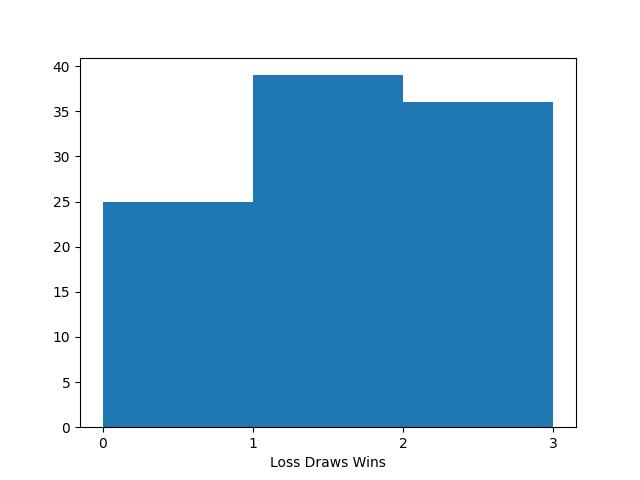
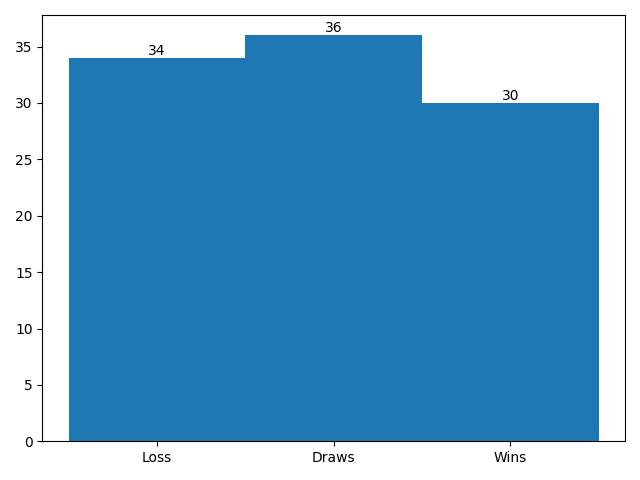
done

diff --git a/first/kpn.py b/first/kpn.py
@@ -1,7 +1,6 @@
 from generators.prand import LCG_CLS
 import matplotlib.pyplot as plt
 from collections import Counter
-from generators.prand import LCG
 from scipy.stats import chisquare
 
 
@@ -22,17 +21,27 @@ def generate_histogram(zipped: zip):
         two = two - 1
         temp.append(possible_output_matrix[one][two])
 
+    print('Rozkład wyników')
+    print("H0: Każdy gracz ma taką samą szansę na wygraną")
+    print("HA: Każdy gracz ma różne szanse na wygraną")
     dataset = list(Counter(temp).values())
-    print(Counter(temp))
+    labels = list(Counter(temp).keys())
+    # print(labels)
+    # print(Counter(temp))
     dist, pvalue = chisquare(dataset)
     uni = 'YES' if pvalue > 0.05 else 'NO'
     print(f"{dist:12.3f} {pvalue:12.8f} {uni:^8}")
+    if pvalue > 0.05: print("Różnice nie są wystarczająco znaczące przy alpha=0.05 przyjmujemy H0")
+    else: print("Różnice nie są wystarczająco znaczące przy alpha=0.05 aby odrzucić H0")
 
-    fig, ax = plt.subplots(1, 1)
-    bins=[0, 1, 2, 3]
-    ax.hist(temp, bins = bins)
-    plt.xticks(bins)
-    plt.xlabel('Loss Draws Wins')
+    fig, ax = plt.subplots(1,1)
+    # ax.hist(temp, bins=bins)
+    bars = ax.bar(list(Counter(temp).keys()), list(Counter(temp).values()), width=1.0)
+    ax.set_xticks(sorted(list(Counter(temp).keys())), labels=['Loss', 'Draws', 'Wins'])
+    ax.bar_label(bars)
+    # b = ax.bar(list(Counter(temp).keys()), list(Counter(temp).values()))
+    # ax.bar_label(ax.containers[0])
+    plt.tight_layout()
     plt.savefig('./images/kpn/kpn_hist.jpg')
 
 
@@ -50,10 +59,12 @@ def play():
     # first = [gen.uniform_restricted(1, 3) for _ in range(100)]
     # second = [gen.uniform_restricted(1, 3) for _ in range(100)]
 
-    dataset = list(Counter(second).values())
-    dist, pvalue = chisquare(dataset)
-    uni = 'YES' if pvalue > 0.05 else 'NO'
-    print(f"{dist:12.3f} {pvalue:12.8f} {uni:^8}")
+    # print('Rozklad rzutów drugiego gracza')
+    # dataset = list(Counter(second).values())
+    # print(Counter(second))
+    # dist, pvalue = chisquare(dataset)
+    # uni = 'YES' if pvalue > 0.05 else 'NO'
+    # print(f"{dist:12.3f} {pvalue:12.8f} {uni:^8}")
 
     zipped = zip(first, second)
     # print(zipped)
@@ -73,7 +84,6 @@ def play():
 
 if __name__ == "__main__":
     pl = play()
-    print(pl)
     generate_histogram(pl)
     # plt.hist(pl, bins=3)
     # plt.savefig('./test.jpg')

diff --git a/first/archers.py b/first/archers.py
@@ -13,15 +13,15 @@ from scipy.stats import chisquare
 
 def first_archer():
     dist = LCG_CLS.uniform_int(0, 1000)
-    points = max(10 - int(dist/40), 0)
+    points = max(10 - int(dist/80), 0)
     return points
 
 def second_archer():
     x = LCG_CLS.uniform_int(-900, 900)
     y = LCG_CLS.uniform_int(-900, 900)
     distance = math.sqrt(x**2 + y**2)
-    # TODO: co to jest
-    score = max(10 - int(distance/40), 0)
+
+    score = max(10 - int(distance/80), 0)
     return score
 
 def play(games=20):
@@ -47,26 +47,26 @@ unique, counts = np.unique(wined, return_counts=True)
 
 
 print("H0: Gracze średnio uzyskują równe wyniki")
-print("HA: Gracze średnio uzyskują różne wyniki")
+print("HA: Gracze średnio uzyskują inne wyniki")
 stat, p = ttest_ind(wyniki1, wyniki2)
 print(stat, p)
-if p < 0.05: print("Różnice nie są wystarczająco znaczące dla poziomu istotności 95%, zatem przyjmujemy H0")
-else: print("Różnice są wystarczające dla poziomu istotności 95% aby odrzucić H0, przyjmując tym HA")
+if p < 0.05: print("Różnice nie są wystarczająco znaczące dla alpha=5%, przyjmujemy H0")
+else: print("Różnice są wystarczające dla alpha=5%, odrzucamy H0")
 
 # plt.style.use('ggplot')
 plt.rcParams["figure.figsize"] = (12, 5)
 f, (ax1, ax2) = plt.subplots(1, 2, sharey=False)
 
-ax1.hist(wyniki1, label="Pierwszy łucznik", color="tab:orange", histtype='bar')
-ax1.hist(wyniki2, label="Drugi łucznik", color="tab:blue", histtype='bar')
+ax1.hist(wyniki1, label="Pierwszy łucznik", color="tab:red", histtype='bar')
+ax1.hist(wyniki2, label="Drugi łucznik", color="tab:green", histtype='bar')
 ax1.legend()
 ax1.set_title("Częstość występowania ilości punktów")
 
 bintuple = []
 for i in list(data_holder.keys()):
-    if i == -1: bintuple.append("Przegrane")
-    elif i == 0: bintuple.append("Remisy")
-    else: bintuple.append("Wygrane")
+    if i == -1: bintuple.append("Loses")
+    elif i == 0: bintuple.append("Draws")
+    else: bintuple.append("Wins")
 
 bars = ax2.bar(list(data_holder.keys()), list(data_holder.values()))
 ax2.set_xticks(list(data_holder.keys()), tuple(bintuple))
